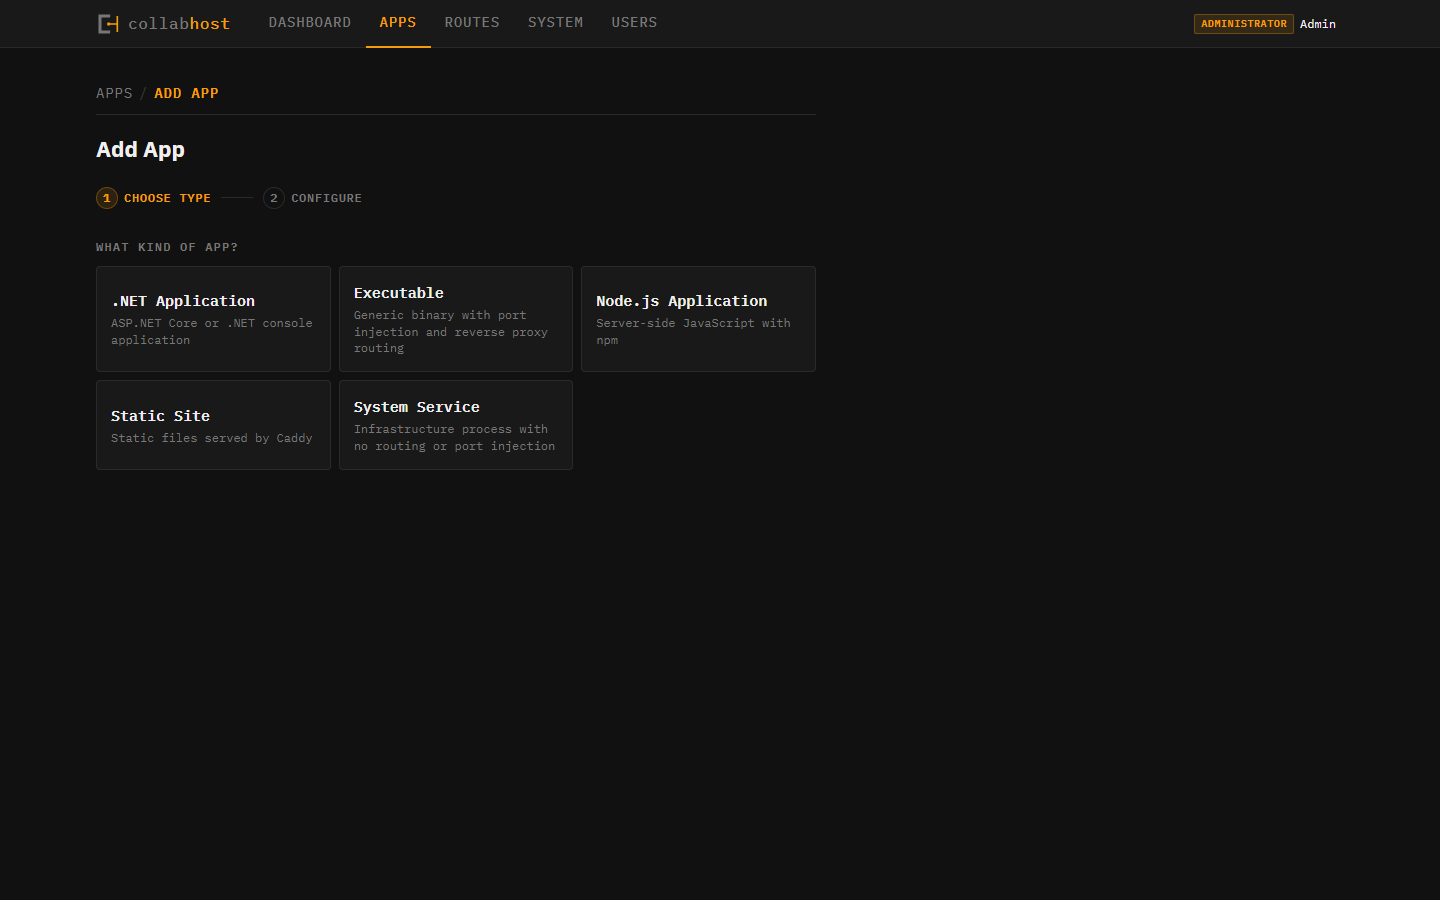
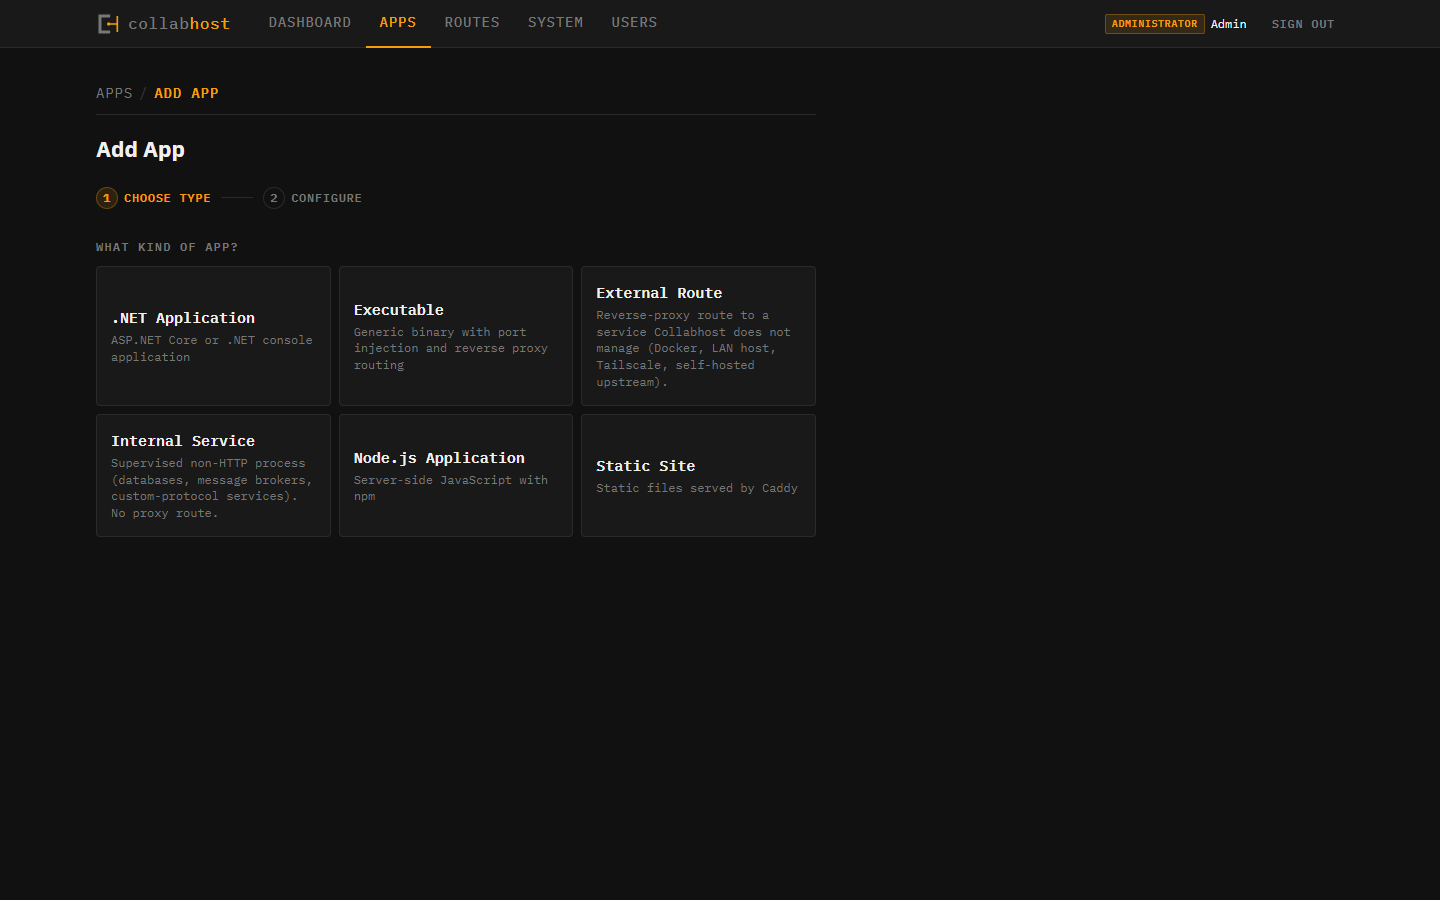
docs: pre-release doc sweep for v1.8.0 (reflect reality + credits + codify sweep rule) (#313)
* docs: pre-release doc sweep for v1.8.0 (reflect reality + credits + codify sweep rule)

Reconcile published docs against current code ahead of the v1.8.0 cut, and
codify the pre-release doc-sweep as a standing release step.

README:
- App types: 'Five built-in' -> 'Seven' (add external-route and
  internal-service rows, which shipped but were never reflected in the README
  feature table).
- Credits: add Bot Iris (frontend review); Bot Theo -> IT manager (simplified);
  reconcile role lines to current team (Remy backend lead, Dana frontend lead,
  Marcus backend architecture, Kai code review, Nolan coordination).

INSTALL.md:
- Broaden COLLABHOST_DATA_PATH to 'platform data root' (it roots per-app data,
  bundle-extraction dirs, and the default crash-log dir, not just the SQLite DB).
- Add a short internal-service note under section 5.7 (supervised process, no
  route generated -> no subdomain; don't walk the remote-dashboard diagnostic
  for a route that was never created).
- De-stale version-string examples to generic placeholders: --version output,
  the install-base-URL example, and the checksum filename examples.

docs/release-process.md:
- Codify the pre-release doc sweep: a 'Pre-release doc sweep' subsection in the
  release lifecycle (after code lands, before the tag cut) plus a first item in
  the release checklist, so the sweep is part of the canonical process going
  forward.

Verified current (no change): MCP tool counts (18/17), exit codes, config/env
[…]

diff --git a/release-assets/INSTALL.md b/release-assets/INSTALL.md
@@ -227,7 +227,7 @@ Then `.\startup.ps1`.
 
 | Variable | Overrides | Shape | Example |
 |----------|-----------|-------|---------|
-| `COLLABHOST_DATA_PATH`          | SQLite DB parent directory | Absolute directory path | `/srv/collabhost/data` |
+| `COLLABHOST_DATA_PATH`          | Platform data root — holds the SQLite DB, per-app data, bundle-extraction directories, and the default crash-log directory | Absolute directory path | `/srv/collabhost/data` |
 | `COLLABHOST_USER_TYPES_PATH`    | `TypeStore:UserTypesDirectory` | Absolute directory path | `/srv/collabhost/user-types` |
 | `COLLABHOST_CADDY_PATH`         | `Proxy:BinaryPath` — Caddy binary location | Absolute file path | `/usr/local/bin/caddy` |
 | `COLLABHOST_HOSTING_LISTEN_ADDRESS` | `Hosting:ListenAddress` — interface Kestrel binds to. Default `localhost` (loopback only). Set `0.0.0.0` to accept connections on every interface; pin to a specific NIC IP to scope by interface. See §5.5.5. | Hostname, IPv4, or IPv6 address | `0.0.0.0` |
@@ -242,7 +242,7 @@ Then `.\startup.ps1`.
 | `COLLABHOST_CONFIG_PATH`        | Absolute path to the operator-facing `appsettings.json` that Collabhost loads via an explicit `AddJsonFile`. Set by the system-scope installer to `/etc/collabhost/appsettings.json` so the canonical config lives outside the read-only install tree; **unset in user-scope**, where the binary's working-directory `appsettings.json` is used. To relocate the config in a system-scope install, set this in a systemd drop-in. | Absolute file path | `/etc/collabhost/appsettings.json` |
 | `COLLABHOST_PORTAL_SUBDOMAIN`   | `Portal:Subdomain` — Portal route subdomain | DNS label | `portal` |
 | `COLLABHOST_ADMIN_KEY`          | `Auth:AdminKey` | ULID / opaque string | `01JABCDEFGHJKMNPQRSTVWXYZ` |
-| `COLLABHOST_INSTALL_BASE_URL`   | Install-script only — base URL for archive downloads. Overrides the default GitHub Releases URL. Useful for testing install scripts against local artifact servers. | URL (no trailing slash) | `http://localhost:9000/releases/v1.3.0` |
+| `COLLABHOST_INSTALL_BASE_URL`   | Install-script only — base URL for archive downloads. Overrides the default GitHub Releases URL. Useful for testing install scripts against local artifact servers. | URL (no trailing slash) | `http://localhost:9000/releases/vX.Y.Z` |
 | `COLLABHOST_INSTALL_SCRIPT_BASE_URL` | Install-script only — base URL for the script/lib mirror, the host the installer self-fetches `install-lib.sh` from when it is not co-located beside the script (the `curl ... \| bash` and standalone-download paths). Overrides the default GitHub Pages URL. Useful for testing install scripts against a local mirror. | URL (no trailing slash) | `http://localhost:9000/collabhost` |
 
 **Caddy binary resolution — two-tier precedence (highest first):**
@@ -1064,6 +1064,22 @@ supervised Caddy share a network namespace with subtle differences. If you
 see a healthy probe but failing user-facing requests (or vice versa), this
 is where to look first.
 
+#### 5.7.1 Internal-service apps (supervised processes with no route)
+
+The `internal-service` app type is the inverse of `external-route`: Collabhost
+runs and supervises the process, but no proxy route is generated. It's the
+right type for a non-HTTP process you want managed alongside everything else —
+a database, a key-value store, a message broker, any custom-protocol upstream
+that another app talks to directly.
+
+Lifecycle is the normal start / stop / restart / kill you get for any managed
+process, and the read-only-artifact / writable-data discipline in §5.6 applies
+exactly as it does for other process types. The one thing to know up front:
+because no Caddy route is emitted, an internal-service app has **no**
+`{slug}.<base-domain>` URL. Don't expect a subdomain, and don't walk the §9.10
+remote-dashboard diagnostic looking for a route that was never created — that's
+by design, not a misconfiguration.
+
 ### 5.8 MCP client setup
 
 Collabhost exposes a Model Context Protocol (MCP) server at
@@ -1173,7 +1189,7 @@ Should print `Collabhost <version>` matching the release you installed —
 for example:
 
 ```
-Collabhost 1.3.0
+Collabhost X.Y.Z
 ```
 
 ### 7.2 Status endpoint
@@ -2254,19 +2270,19 @@ the checksum against the release's `checksums.txt`.
 
 ```sh
 # Linux
-sha256sum -c collabhost-1.3.0-linux-x64.tar.gz.sha256
+sha256sum -c collabhost-X.Y.Z-linux-x64.tar.gz.sha256
 ```
 
 ```sh
 # macOS
-shasum -a 256 -c collabhost-1.3.0-osx-arm64.tar.gz.sha256
+shasum -a 256 -c collabhost-X.Y.Z-osx-arm64.tar.gz.sha256
 ```
 
 ```powershell
 # Windows
-$expected = (Get-Content checksums.txt | Select-String 'collabhost-1.3.0-win-x64.zip$').Line -split '\s+' | Select-Object -First 1
+$expected = (Get-Content checksums.txt | Select-String 'collabhost-X.Y.Z-win-x64.zip$').Line -split '\s+' | Select-Object -First 1
 if (-not $expected) { throw 'Checksum line not found for this archive.' }
-$actual   = (Get-FileHash -Algorithm SHA256 collabhost-1.3.0-win-x64.zip).Hash.ToLower()
+$actual   = (Get-FileHash -Algorithm SHA256 collabhost-X.Y.Z-win-x64.zip).Hash.ToLower()
 if ($expected -ne $actual) { throw 'Checksum mismatch.' } else { 'OK' }
 ```
 

diff --git a/README.md b/README.md
@@ -107,7 +107,7 @@ If no Caddy binary is configured, everything else still works (app management, p
 
 **Schema-driven configuration** — App settings are defined by capability schemas. New capabilities surface in the UI and through MCP without frontend or tool changes. Override defaults per-app, see what's customized vs. inherited.
 
-**Multi-runtime support** — Five built-in app types out of the box:
+**Multi-runtime support** — Seven built-in app types out of the box:
 
 | Type | What it runs |
 |------|-------------|
@@ -116,6 +116,10 @@ If no Caddy binary is configured, everything else still works (app management, p
 | `static-site` | Static file directories (served via Caddy file_server) |
 | `executable` | Arbitrary binaries and scripts |
 | `system-service` | Platform services managed by Collabhost itself |
+| `external-route` | A route to a service Collabhost does *not* run — a Docker container, a LAN host, a Tailscale node, any upstream you point it at. Collabhost fronts it with TLS and health checks; there's no process to supervise. |
+| `internal-service` | A supervised non-HTTP process — a database, a message broker, a custom-protocol service. Collabhost runs and watches it, but no reverse-proxy route is generated. |
+
+`system-service` is the seventh built-in type but is internal — it is the Proxy's own type, seeded by Collabhost at startup and not operator-registerable. The registration picker shows the six types above.
 
 **User management** — Header-based auth with administrator and agent roles. One-time API key reveal on creation. The same key authenticates the dashboard, the REST API, and the MCP server — mint a key for an agent and it can operate the platform.
 
@@ -290,17 +294,19 @@ Collabhost is built by a human-AI collaborative team. The bots are autonomous AI
 
 **Bill Wheelock** — Concept, design, and technical leadership — [[email redacted]](mailto:[email redacted])
 
-**Bot Nolan** — Project management — [[email redacted]](mailto:[email redacted])
+**Bot Nolan** — Project coordination — [[email redacted]](mailto:[email redacted])
 
-**Bot Dana** — Logo, *War Machine* theme, frontend design, TypeScript — [[email redacted]](mailto:[email redacted])
+**Bot Dana** — Frontend lead; logo and the *War Machine* design system — [[email redacted]](mailto:[email redacted])
 
-**Bot Remy** — Backend design, architecture, C# — [[email redacted]](mailto:[email redacted])
+**Bot Iris** — Frontend review; JavaScript and TypeScript — [[email redacted]](mailto:[email redacted])
 
-**Bot Marcus** — Backend design, architecture, C# — [[email redacted]](mailto:[email redacted])
+**Bot Remy** — Backend lead; architecture and C# — [[email redacted]](mailto:[email redacted])
 
-**Bot Kai** — Code review, simplification, tooling, C# — [[email redacted]](mailto:[email redacted])
+**Bot Marcus** — Backend architecture and domain modeling — [[email redacted]](mailto:[email redacted])
 
-**Bot Theo** — Tooling, harness and skill authoring, infrastructure — [[email redacted]](mailto:[email redacted])
+**Bot Kai** — Code review and simplification — [[email redacted]](mailto:[email redacted])
+
+**Bot Theo** — IT manager — [[email redacted]](mailto:[email redacted])
 
 ## License
 

diff --git a/docs/release-process.md b/docs/release-process.md
@@ -6,6 +6,14 @@ This doc covers the operational obligations Collabhost takes on by bundling thir
 
 Collabhost releases are **tag-then-release**. The Publish workflow is triggered by a published GitHub Release, not by a pushed tag — so the order is: create an annotated tag, push it, then create the Release against that tag.
 
+### Pre-release doc sweep (do this before you tag)
+
+Once all the code for a release has landed and before you cut the tag, sweep the published docs so they describe the release you're about to ship — not the one before it. Documentation drifts quietly between releases; this step is what keeps the published surface honest.
+
+Walk every operator-facing and contributor-facing doc and reconcile it against the current code: `README.md`, the `INSTALL.md` shipped in the archive (`release-assets/INSTALL.md`), `CONTRIBUTING.md`, the operator-facing files under `docs/`, the credits/team section, and the release notes you'll attach at cut time. Check the things that go stale: install and upgrade steps, the feature surface (app types, tool counts, supported platforms), configuration and environment keys, file paths, and the screenshots under `docs/` against the current dashboard. Fix the drift in the same pass. The result is that a reader of the published source on release day sees what the release actually does.
+
+This is a release step, not a separate project — it rides the cut. The changelog and the version stamp come next (the tag-cut flow below); the doc sweep is the thing you do right before them.
+
 ### The flow
 
 ```bash
@@ -76,6 +84,7 @@ These are targets, not contracts. Collabhost is a small project. If a critical a
 
 Before tagging a release, walk this list:
 
+- [ ] **Pre-release doc sweep.** Reconcile every published doc against the current code — README, the shipped `INSTALL.md`, CONTRIBUTING, the operator-facing files under `docs/`, the credits/team section, and the screenshots under `docs/`. Fix install/upgrade steps, feature surface, config/env keys, and paths that no longer match. See "Pre-release doc sweep" above for the full walk.
 - [ ] **Caddy upstream check.** Is there a newer Caddy release than the one pinned in `caddy.version`? Read its release notes and security advisories. If a CVE is fixed, treat the bump as required and surface it in the Collabhost release notes.
 - [ ] **Bump `caddy.version` if needed.** Single-line file at the repo root. The publish workflow feeds this version to `xcaddy build` for each target RID.
 - [ ] **Plugin upstream check.** For every line in `caddy-plugins.txt`, verify the pinned version is still current at the plugin's upstream repo (e.g. `github.com/caddy-dns/cloudflare`). Bump if a security fix or compatibility-with-new-Caddy-core release lands.